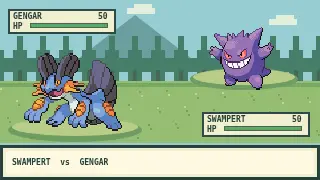
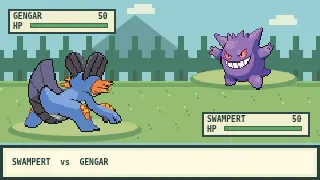
fix: face Swampert toward Gengar using back sprite in battle preview

Changed region(s): [[0.0625, 0.2778, 0.4062, 0.75]]

diff --git a/docs/design/gameplay-preview.md b/docs/design/gameplay-preview.md
@@ -7,4 +7,4 @@ A abertura da área de edição apresenta “Sobre Mim” e uma simulação de e
 - `src/components/ui/PixelBattlePreview.jsx`: imagem responsiva e pausa.
 - `scripts/generate-battle-preview.mjs`: geração reproduzível com Canvas, Playwright/Chromium e ffmpeg. São ferramentas de autoria, sem dependências extras para o site. Executar a partir da raiz com `node scripts/generate-battle-preview.mjs`; `BATTLE_CHROMIUM_PATH` permite usar um Chromium já instalado.
 
-O cenário, as barras e os efeitos foram desenhados em Canvas. Os dois sprites estáticos são os arquivos de Pokémon já presentes no projeto, originários da PokéAPI (Black/White); veja `public/images/pokemon/README.md`. A imagem é uma animação ilustrativa, não uma amostra de trabalho para cliente. A imagem estática anterior `gameplay-preview.webp` permanece disponível para uma eventual troca.
+O cenário, as barras e os efeitos foram desenhados em Canvas. Os sprites são originários da PokéAPI (Black/White): Swampert usa a vista de costas (`swampert-back.png`) para olhar para Gengar, que usa a vista frontal; veja `public/images/pokemon/README.md`. A imagem é uma animação ilustrativa, não uma amostra de trabalho para cliente. A imagem estática anterior `gameplay-preview.webp` permanece disponível para uma eventual troca.

diff --git a/public/images/pokemon/README.md b/public/images/pokemon/README.md
@@ -13,3 +13,5 @@ Cada arquivo é preservado integralmente; o CSS seleciona os quadros, com escala
 As poses estáticas anteriores da PokéAPI permanecem arquivadas nestas três imagens: swampert.png, lucario.png, gengar.png. Origem https://github.com/PokeAPI/sprites, `sprites/pokemon/versions/generation-v/black-white/{260,448,94}.png`.
 
 Animações CSS respeitam pausa e movimento reduzido; não requerem API externa.
+
+A prévia de batalha também usa `swampert-back.png`, sprite de costas da PokéAPI: https://github.com/PokeAPI/sprites/blob/master/sprites/pokemon/versions/generation-v/black-white/back/260.png. Ele posiciona Swampert voltado para o oponente.
